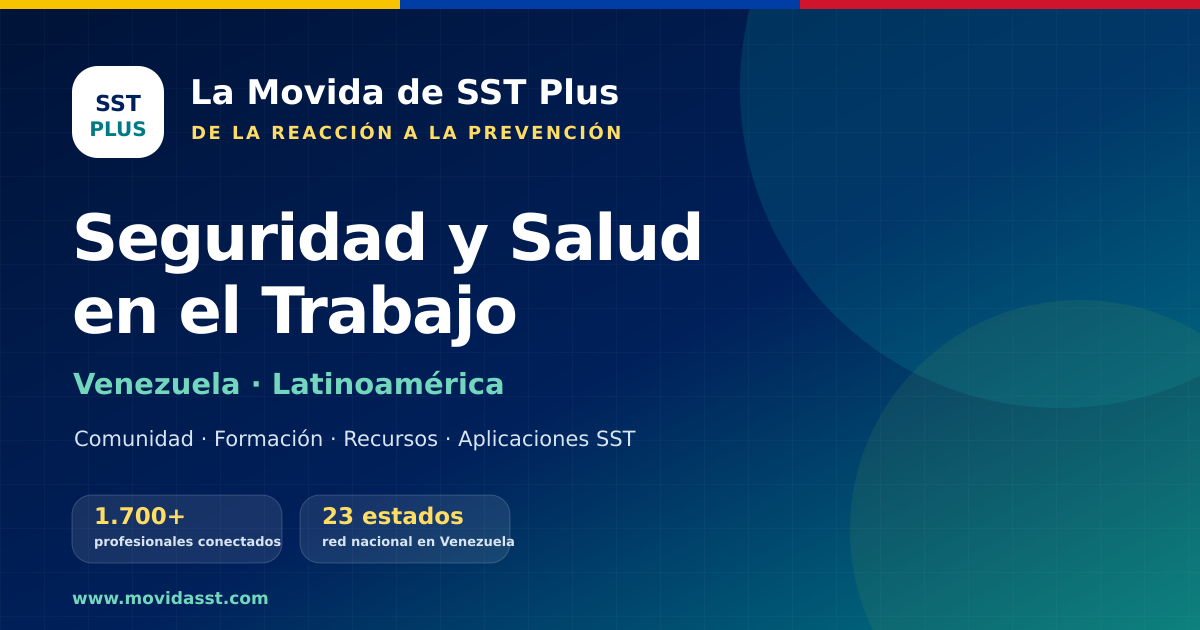
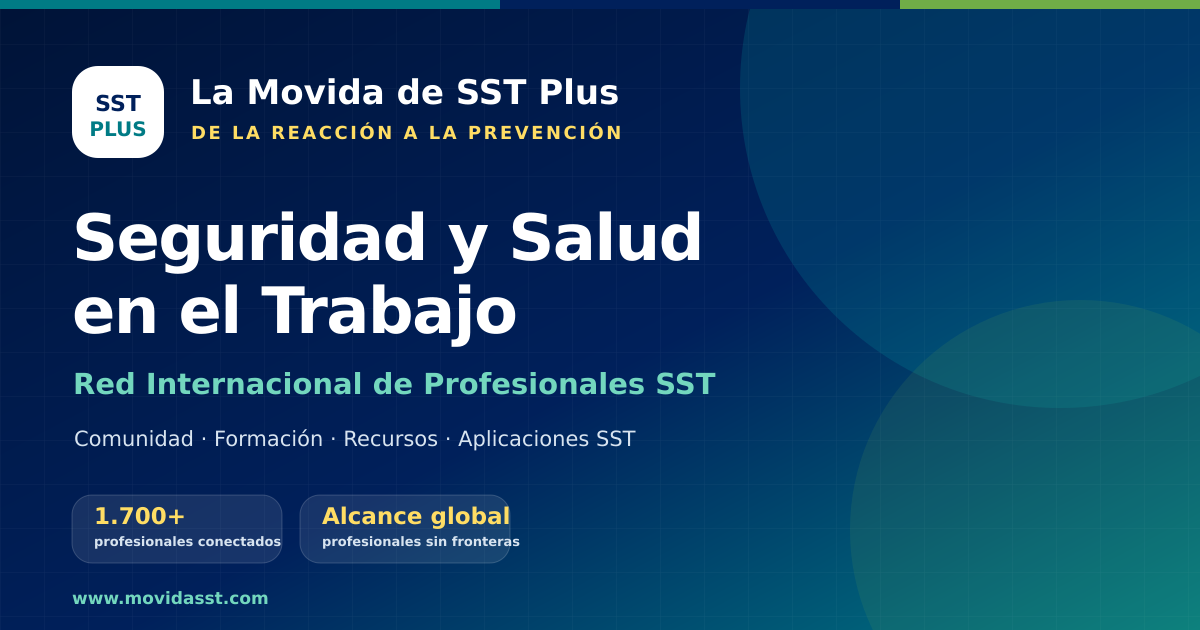
feat: renovar portada con identidad internacional

Changed region(s): [[0.0, 0.0, 1.0, 0.0302], [0.0617, 0.573, 0.6167, 0.6333], [0.2467, 0.7841, 0.4317, 0.8746]]

diff --git a/index.html b/index.html
@@ -4,8 +4,8 @@
   <meta charset="UTF-8">
   <meta name="viewport" content="width=device-width, initial-scale=1.0, viewport-fit=cover">
 
-  <title>Seguridad y Salud en el Trabajo Venezuela | La Movida SST</title>
-  <meta name="description" content="La red de Seguridad y Salud en el Trabajo de Venezuela y Latinoamérica: formación, recursos, aplicaciones y comunidad para prevenir y crecer.">
+  <title>Red Internacional de Profesionales SST | La Movida SST Plus</title>
+  <meta name="description" content="Red Internacional de Profesionales de Seguridad y Salud en el Trabajo: formación, recursos, aplicaciones, simuladores y aprendizaje colaborativo.">
   <meta name="author" content="David Linares Brea">
   <meta name="robots" content="index,follow,max-image-preview:large,max-snippet:-1,max-video-preview:-1">
   <meta name="googlebot" content="index,follow,max-image-preview:large,max-snippet:-1,max-video-preview:-1">
@@ -22,23 +22,23 @@
   <meta name="theme-color" content="#00205b">
 
   <meta property="og:site_name" content="La Movida de SST Plus">
-  <meta property="og:title" content="Seguridad y Salud en el Trabajo en Venezuela | La Movida SST">
-  <meta property="og:description" content="Comunidad, formación, recursos y aplicaciones para profesionales de SST, salud ocupacional y prevención de riesgos en Venezuela y Latinoamérica.">
+  <meta property="og:title" content="Red Internacional de Profesionales SST | La Movida SST Plus">
+  <meta property="og:description" content="Comunidad internacional, formación, recursos, aplicaciones y simuladores para profesionales de Seguridad y Salud en el Trabajo.">
   <meta property="og:image" content="https://www.movidasst.com/og-movida-sst.png">
   <meta property="og:image:secure_url" content="https://www.movidasst.com/og-movida-sst.png">
   <meta property="og:image:type" content="image/png">
   <meta property="og:image:width" content="1200">
   <meta property="og:image:height" content="630">
-  <meta property="og:image:alt" content="La Movida de SST Plus — Seguridad y Salud en el Trabajo en Venezuela y Latinoamérica">
+  <meta property="og:image:alt" content="La Movida de SST Plus — Red Internacional de Profesionales SST">
   <meta property="og:url" content="https://www.movidasst.com/">
   <meta property="og:type" content="website">
   <meta property="og:locale" content="es_VE">
 
   <meta name="twitter:card" content="summary_large_image">
-  <meta name="twitter:title" content="Seguridad y Salud en el Trabajo en Venezuela | La Movida SST">
-  <meta name="twitter:description" content="Comunidad, formación, recursos y aplicaciones para profesionales de SST en Venezuela y Latinoamérica.">
+  <meta name="twitter:title" content="Red Internacional de Profesionales SST | La Movida SST Plus">
+  <meta name="twitter:description" content="Formación, recursos, aplicaciones, simuladores y aprendizaje colaborativo para profesionales SST de todos los países.">
   <meta name="twitter:image" content="https://www.movidasst.com/og-movida-sst.png">
-  <meta name="twitter:image:alt" content="La Movida de SST Plus — Seguridad y Salud en el Trabajo en Venezuela y Latinoamérica">
+  <meta name="twitter:image:alt" content="La Movida de SST Plus — Red Internacional de Profesionales SST">
 
   <link rel="icon" type="image/png" href="/logo-oficial-movida-sst-plus.png">
   <link rel="preconnect" href="https://fonts.googleapis.com">
@@ -66,17 +66,14 @@
           "url":"https://www.movidasst.com/logo-oficial-movida-sst-plus.png"
         },
         "image":"https://www.movidasst.com/og-movida-sst.png",
-        "description":"Red y ecosistema digital para profesionales de Seguridad y Salud en el Trabajo, salud ocupacional y prevención de riesgos laborales en Venezuela y Latinoamérica.",
+        "description":"Red internacional y ecosistema digital para profesionales de Seguridad y Salud en el Trabajo, salud ocupacional y prevención de riesgos laborales.",
         "slogan":"De la reacción a la prevención",
         "founder":{
           "@type":"Person",
           "name":"David Linares Brea",
           "url":"https://davidlinares.movidasst.com/"
         },
-        "areaServed":[
-          {"@type":"Country","name":"Venezuela"},
-          {"@type":"Place","name":"Latinoamérica"}
-        ],
+        "areaServed":{"@type":"Place","name":"Internacional"},
         "contactPoint":{
           "@type":"ContactPoint",
           "contactType":"Atención a la comunidad",
@@ -100,21 +97,21 @@
         "alternateName":["La Movida SST","Movida SST Plus"],
         "url":"https://www.movidasst.com/",
         "inLanguage":"es-VE",
-        "description":"Ecosistema de Seguridad y Salud en el Trabajo para Venezuela y Latinoamérica.",
+        "description":"Ecosistema internacional de Seguridad y Salud en el Trabajo.",
         "publisher":{"@id":"https://www.movidasst.com/#organization"}
       },
       {
         "@type":"WebPage",
         "@id":"https://www.movidasst.com/#webpage",
         "url":"https://www.movidasst.com/",
-        "name":"Seguridad y Salud en el Trabajo Venezuela | La Movida SST",
-        "description":"Formación, recursos, aplicaciones y comunidad para profesionales de Seguridad y Salud en el Trabajo en Venezuela y Latinoamérica.",
+        "name":"Red Internacional de Profesionales SST | La Movida SST Plus",
+        "description":"Formación, recursos, aplicaciones y comunidad internacional para profesionales de Seguridad y Salud en el Trabajo.",
         "isPartOf":{"@id":"https://www.movidasst.com/#website"},
         "about":{"@id":"https://www.movidasst.com/#organization"},
         "primaryImageOfPage":{"@id":"https://www.movidasst.com/#primaryimage"},
         "inLanguage":"es-VE",
-        "dateModified":"2026-09-05",
-        "keywords":["Seguridad y Salud en el Trabajo Venezuela","SST Venezuela","salud ocupacional","prevención de riesgos laborales","capacitación SST","profesionales SST","Latinoamérica"]
+        "dateModified":"2026-09-12",
+        "keywords":["Red Internacional de Profesionales SST","Seguridad y Salud en el Trabajo","salud ocupacional","prevención de riesgos laborales","capacitación SST","profesionales SST","comunidad internacional SST"]
       },
       {
         "@type":"ImageObject",
@@ -123,7 +120,7 @@
         "contentUrl":"https://www.movidasst.com/og-movida-sst.png",
         "width":1200,
         "height":630,
-        "caption":"La Movida de SST Plus — Seguridad y Salud en el Trabajo en Venezuela y Latinoamérica"
+        "caption":"La Movida de SST Plus — Red Internacional de Profesionales SST"
       },
       {
         "@type":"ItemList",
@@ -155,8 +152,8 @@
           },
           {
             "@type":"Question",
-            "name":"¿Pueden participar profesionales de otros países de Latinoamérica?",
-            "acceptedAnswer":{"@type":"Answer","text":"Sí. Aunque La Movida nació con una fuerte presencia en Venezuela, sus recursos digitales, contenidos y espacios de aprendizaje tienen alcance latinoamericano."}
+            "name":"¿Pueden participar profesionales de cualquier país?",
+            "acceptedAnswer":{"@type":"Answer","text":"Sí. La Movida de SST Plus es una red internacional abierta a profesionales de Seguridad y Salud en el Trabajo de todos los países."}
           },
           {
             "@type":"Question",
@@ -177,10 +174,7 @@
       --teal-light:#00a7ad;
       --green:#70ad47;
       --yellow:#ffb600;
-      --ven-yellow:#f8c300;
-      --ven-blue:#003da5;
-      --ven-red:#cf142b;
-      --surface:#f6f9fc;
+      --surface:#f8fafc;
       --ink:#10233f;
       --muted:#61738b;
     }
@@ -193,12 +187,7 @@
       overflow-x:hidden;
       font-family:'Manrope',sans-serif;
       color:var(--ink);
-      background:
-        radial-gradient(circle at 7% 2%,rgba(248,195,0,.075),transparent 25rem),
-        radial-gradient(circle at 94% 6%,rgba(0,61,165,.085),transparent 31rem),
-        radial-gradient(circle at 10% 86%,rgba(207,20,43,.035),transparent 23rem),
-        radial-gradient(circle at 76% 72%,rgba(0,123,133,.055),transparent 31rem),
-        linear-gradient(180deg,#fcfdff 0%,#f6f9fc 58%,#eff5f8 100%);
+      background:#f8fafc;
     }
 
     h1,h2,h3,.display{font-family:'Outfit',sans-serif}
@@ -207,7 +196,7 @@
 
     .top-flag{
       height:5px;
-      background:linear-gradient(90deg,var(--ven-yellow) 0 33.3%,var(--ven-blue) 33.3% 66.6%,var(--ven-red) 66.6% 100%);
+      background:linear-gradient(90deg,var(--teal),var(--navy) 68%,var(--green));
       box-shadow:0 2px 10px rgba(0,32,91,.12);
     }
 
@@ -226,18 +215,14 @@
       border:2px solid transparent;
       background:
         linear-gradient(#fff,#fff) padding-box,
-        linear-gradient(135deg,var(--ven-yellow),var(--ven-blue) 58%,var(--ven-red)) border-box;
+        linear-gradient(135deg,var(--teal),var(--navy) 65%,var(--green)) border-box;
       box-shadow:
         0 0 0 4px rgba(255,255,255,.96),
         0 14px 32px rgba(0,32,91,.18);
     }
 
     .hero-grid{
-      background-image:
-        linear-gradient(rgba(151,204,255,.026) 1px,transparent 1px),
-        linear-gradient(90deg,rgba(151,204,255,.026) 1px,transparent 1px);
-      background-size:36px 36px;
-      background-position:center;
+      background-image:none;
     }
 
     .tricolor-edge{position:relative}
@@ -249,8 +234,8 @@
       bottom:0;
       left:0;
       height:5px;
-      background:linear-gradient(90deg,var(--ven-yellow) 0 33.3%,var(--ven-blue) 33.3% 66.6%,var(--ven-red) 66.6% 100%);
-      opacity:.94;
+      background:linear-gradient(90deg,var(--teal),var(--green));
+      opacity:.88;
       pointer-events:none;
     }
 
@@ -340,11 +325,12 @@
       box-shadow:0 8px 18px rgba(0,123,133,.22);
     }
 
-    .app-feature{
-      background:
-        radial-gradient(circle at 90% 15%,rgba(248,195,0,.16),transparent 28%),
-        radial-gradient(circle at 8% 88%,rgba(0,207,192,.13),transparent 26%),
-        linear-gradient(135deg,#00183f 0%,#003477 55%,#007b85 100%);
+    .app-feature{background:linear-gradient(135deg,var(--navy),var(--teal))}
+
+    .main-hero{
+      background:linear-gradient(135deg,#ffffff 0%,#f1f9f9 58%,#e8f4f5 100%);
+      border:1px solid #d9eaec;
+      box-shadow:0 22px 55px rgba(0,32,91,.12);
     }
 
     .mini-route{
@@ -460,7 +446,7 @@
       <nav class="hidden items-center gap-1 xl:flex" aria-label="Navegación principal">
         <a href="#pilares" class="rounded-xl px-3.5 py-2.5 text-sm font-extrabold text-[#00205b] hover:bg-slate-100">Ecosistema</a>
         <a href="https://registro.movidasst.com/" class="rounded-xl px-3.5 py-2.5 text-sm font-extrabold text-[#00205b] hover:bg-slate-100">Registro</a>
-        <a href="https://directorio.movidasst.com/" class="rounded-xl px-3.5 py-2.5 text-sm font-extrabold text-[#00205b] hover:bg-slate-100">Directorio</a>
+        <a href="https://directorio.movidasst.com/" class="rounded-xl px-3.5 py-2.5 text-sm font-extrabold text-[#00205b] hover:bg-slate-100">Directorio Internacional</a>
         <a href="https://movidasst.org/login/index.php" class="rounded-xl px-3.5 py-2.5 text-sm font-extrabold text-[#00205b] hover:bg-slate-100">Academia</a>
         <a href="https://presupuesto.movidasst.com/" class="rounded-xl bg-gradient-to-r from-[#007b85]/10 to-[#00205b]/10 px-3.5 py-2.5 text-sm font-extrabold text-[#00205b] ring-1 ring-[#007b85]/15 hover:from-[#007b85]/15 hover:to-[#00205b]/15">Empresas</a>
         <a href="https://aplicaciones.movidasst.com/" class="rounded-xl px-3.5 py-2.5 text-sm font-extrabold text-[#00205b] hover:bg-slate-100">Aplicaciones</a>
@@ -492,39 +478,29 @@
         </a>
       </div>
 
-      <div class="absolute left-[-9rem] top-16 h-72 w-72 rounded-full bg-cyan-300/20 blur-3xl" aria-hidden="true"></div>
-      <div class="absolute right-[-8rem] top-20 h-64 w-64 rounded-full bg-amber-300/20 blur-3xl" aria-hidden="true"></div>
-
       <div class="shell">
-        <div class="hero-grid tricolor-edge relative overflow-hidden rounded-[2rem] bg-gradient-to-br from-[#00183f] via-[#003477] to-[#007b85] px-5 py-8 text-white shadow-[0_28px_70px_rgba(0,32,91,.25)] sm:px-8 sm:py-12 lg:px-12 lg:py-14">
-          <div class="absolute inset-0 bg-[radial-gradient(circle_at_85%_12%,rgba(248,195,0,.18),transparent_28%)]" aria-hidden="true"></div>
-          <div class="absolute -left-16 bottom-[-5rem] h-52 w-52 rounded-full bg-[#003da5]/16 blur-3xl" aria-hidden="true"></div>
-          <div class="absolute right-[-4rem] bottom-[-6rem] h-44 w-44 rounded-full bg-[#cf142b]/10 blur-3xl" aria-hidden="true"></div>
+        <div class="main-hero tricolor-edge relative overflow-hidden rounded-[2rem] px-5 py-8 text-[#00205b] sm:px-8 sm:py-12 lg:px-12 lg:py-14">
 
           <div class="relative z-10 max-w-3xl">
-            <div class="inline-flex items-center gap-2 rounded-full border border-white/15 bg-white/10 px-3 py-2 text-[.64rem] font-extrabold uppercase tracking-[.14em] text-cyan-50 backdrop-blur-md sm:text-xs">
-              <span class="flag-dots" aria-hidden="true">
-                <span class="bg-[#f8c300]"></span>
-                <span class="bg-[#3b82f6]"></span>
-                <span class="bg-[#e04b5f]"></span>
-              </span>
-              Ecosistema profesional SST de Venezuela y Latinoamérica
+            <div class="inline-flex items-center gap-2 rounded-full border border-[#007b85]/20 bg-white px-3 py-2 text-[.64rem] font-extrabold uppercase tracking-[.14em] text-[#007b85] shadow-sm sm:text-xs">
+              <span class="h-2 w-2 rounded-full bg-[#70ad47]" aria-hidden="true"></span>
+              Comunidad profesional internacional
             </div>
 
             <h1 class="display mt-5 text-[2.35rem] font-extrabold leading-[1.02] tracking-[-.035em] sm:text-5xl lg:text-[4.15rem]">
-              Seguridad y Salud en el Trabajo para Venezuela y Latinoamérica.
+              Red Internacional de Profesionales de Seguridad y Salud en el Trabajo
             </h1>
 
-            <p class="mt-5 max-w-2xl text-[.97rem] leading-7 text-slate-200 sm:text-lg">
-              La Movida de SST Plus conecta profesionales, formación continua, recursos técnicos y aplicaciones para fortalecer la salud ocupacional y la prevención de riesgos laborales.
+            <p class="mt-5 max-w-2xl text-[.97rem] leading-7 text-slate-600 sm:text-lg">
+              Conectamos profesionales, formación, herramientas, simuladores y aprendizaje colaborativo para avanzar de la reacción a la prevención. Una comunidad nacida en Venezuela y abierta a profesionales de todos los países.
             </p>
 
             <div class="mt-7 flex flex-col gap-3 sm:flex-row">
-              <a href="https://registro.movidasst.com/" class="inline-flex min-h-12 items-center justify-center gap-2 rounded-2xl bg-[#f8c300] px-6 py-3.5 font-extrabold text-[#00205b] shadow-[0_12px_30px_rgba(248,195,0,.22)] transition hover:bg-[#ffd43b] active:scale-[.985]">
+              <a href="https://registro.movidasst.com/" class="inline-flex min-h-12 items-center justify-center gap-2 rounded-2xl bg-gradient-to-r from-[#007b85] to-[#00205b] px-6 py-3.5 font-extrabold text-white shadow-[0_12px_30px_rgba(0,123,133,.20)] transition active:scale-[.985]">
                 Comenzar mi registro
                 <svg width="18" height="18" viewBox="0 0 24 24" fill="none" stroke="currentColor" stroke-width="2.6" stroke-linecap="round" stroke-linejoin="round" aria-hidden="true"><path d="M5 12h14"/><path d="m13 6 6 6-6 6"/></svg>
               </a>
-              <a href="https://aplicaciones.movidasst.com/" class="inline-flex min-h-12 items-center justify-center gap-2 rounded-2xl border border-white/20 bg-white/10 px-6 py-3.5 font-extrabold text-white backdrop-blur-md transition active:scale-[.985]">
+              <a href="https://aplicaciones.movidasst.com/" class="inline-flex min-h-12 items-center justify-center gap-2 rounded-2xl border border-[#007b85]/25 bg-white px-6 py-3.5 font-extrabold text-[#00205b] shadow-sm transition active:scale-[.985]">
                 Explorar Aplicaciones SST
               </a>
             </div>
@@ -537,14 +513,14 @@
     <section id="sst-venezuela" class="shell scroll-mt-28 pt-9 sm:pt-12" aria-labelledby="sst-venezuela-title">
       <div class="glass rounded-[2rem] p-6 sm:p-9 lg:grid lg:grid-cols-[.9fr_1.1fr] lg:items-center lg:gap-12">
         <div>
-          <span class="section-kicker">Red profesional regional</span>
+          <span class="section-kicker">Comunidad profesional internacional</span>
           <h2 id="sst-venezuela-title" class="display mt-2 text-3xl font-extrabold tracking-tight text-[#00205b] sm:text-4xl">
-            La comunidad de SST que conecta Venezuela con Latinoamérica
+            Profesionales de SST conectados sin fronteras
           </h2>
         </div>
         <div class="mt-5 lg:mt-0">
           <p class="text-sm leading-7 text-slate-600 sm:text-base">
-            Reunimos conocimientos, herramientas y personas para mejorar la gestión de la <strong>Seguridad y Salud en el Trabajo</strong>. Desde Venezuela impulsamos capacitación SST, actualización normativa, salud ocupacional, prevención de accidentes y aprendizaje colaborativo con alcance latinoamericano.
+            Reunimos conocimientos, herramientas y personas para mejorar la gestión de la <strong>Seguridad y Salud en el Trabajo</strong>. Desde Venezuela impulsamos capacitación, actualización normativa, salud ocupacional, prevención y aprendizaje colaborativo con alcance internacional.
           </p>
           <div class="mt-5 flex flex-wrap gap-2" aria-label="Temas principales">
             <span class="rounded-full bg-[#eef7f8] px-3 py-2 text-xs font-extrabold text-[#007b85]">Capacitación SST</span>
@@ -859,10 +835,10 @@
 
         <details class="group rounded-[1.4rem] border border-slate-200 bg-white p-5 shadow-[0_10px_30px_rgba(0,32,91,.05)]">
           <summary class="flex cursor-pointer list-none items-center justify-between gap-4 font-extrabold text-[#00205b]">
-            ¿Pueden participar profesionales de otros países de Latinoamérica?
+            ¿Pueden participar profesionales de cualquier país?
             <span class="text-xl text-[#007b85] transition group-open:rotate-45" aria-hidden="true">+</span>
           </summary>
-          <p class="mt-4 text-sm leading-7 text-slate-600">Sí. Aunque La Movida nació con una fuerte presencia en Venezuela, sus recursos digitales, contenidos y espacios de aprendizaje tienen alcance latinoamericano.</p>
+          <p class="mt-4 text-sm leading-7 text-slate-600">Sí. La Movida de SST Plus es una Red Internacional abierta a profesionales de Seguridad y Salud en el Trabajo de todos los países.</p>
         </details>
 
         <details class="group rounded-[1.4rem] border border-slate-200 bg-white p-5 shadow-[0_10px_30px_rgba(0,32,91,.05)]">
@@ -956,19 +932,19 @@
   </main>
 
   <!-- FOOTER -->
-  <footer class="relative border-t border-slate-200/80 bg-white/76 pb-10 pt-10 backdrop-blur-md before:absolute before:inset-x-0 before:top-0 before:h-[3px] before:bg-[linear-gradient(90deg,#f8c300_0_33.3%,#003da5_33.3%_66.6%,#cf142b_66.6%_100%)]">
+  <footer class="relative border-t border-slate-200/80 bg-white pb-10 pt-10 before:absolute before:inset-x-0 before:top-0 before:h-[3px] before:bg-[linear-gradient(90deg,#007b85,#00205b_68%,#70ad47)]">
     <div class="shell">
       <div class="grid gap-8 md:grid-cols-[1.4fr_1fr_1fr]">
         <div>
           <div class="display text-xl font-extrabold text-[#00205b]">La Movida de SST <span class="text-[#007b85]">Plus</span></div>
-          <p class="mt-3 max-w-md text-sm leading-6 text-slate-600">Comunidad, formación, herramientas y aplicaciones para fortalecer la Seguridad y Salud en el Trabajo en Venezuela y Latinoamérica.</p>
+          <p class="mt-3 max-w-md text-sm leading-6 text-slate-600">Red Internacional de Profesionales SST: comunidad, formación, herramientas y aplicaciones para avanzar de la reacción a la prevención.</p>
         </div>
 
         <div>
           <h3 class="text-sm font-extrabold uppercase tracking-[.13em] text-[#00205b]">Accesos</h3>
           <div class="mt-3 grid gap-2 text-sm font-semibold text-slate-600">
             <a href="https://registro.movidasst.com/">Registro</a>
-            <a href="https://directorio.movidasst.com/">Directorio</a>
+            <a href="https://directorio.movidasst.com/">Directorio Internacional</a>
             <a href="https://movidasst.org/login/index.php">Academia</a>
             <a href="https://presupuesto.movidasst.com/" class="font-extrabold text-[#007b85]">Capacitación para empresas</a>
             <a href="https://aplicaciones.movidasst.com/">Aplicaciones SST</a>
@@ -990,7 +966,7 @@
 
       <div class="mt-9 border-t border-slate-200 pt-6 text-center text-xs leading-6 text-slate-500 sm:flex sm:items-center sm:justify-between sm:text-left">
         <span>© 2026 La Movida de SST Plus.</span>
-        <span>De la reacción a la prevención · Venezuela y Latinoamérica</span>
+        <span>De la reacción a la prevención · Red Internacional de Profesionales SST</span>
       </div>
     </div>
   </footer>
@@ -1199,4 +1175,3 @@
   </script>
 </body>
 </html>
-
